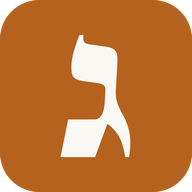
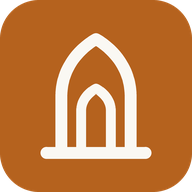
סימן האתר: קשת בית הכנסת, גם בלשונית הדפדפן (#98)
קשת מחודדת על סף, ובתוכה פתח: בית הכנסת בן עזרא שבו נשמרה הגניזה, וה"חלון"
שבכותרת. מחליפה את הקרע מעל הכותרת בדף הבית ובבאנר של כל דף פנימי, ואת
הגימל ב-favicon.

- brand_mark.py מחזיק את הגאומטריה פעם אחת: SVG לדפים, ונקודות לציור
  ב-Pillow. make_brand_assets.py מצייר ממנה את ה-favicon (קשת בקרם על
  אריח הזהב, בקווים עבים יותר כדי שתחזיק ב-16px) ואת הקשת שבתמונת השיתוף,
  במקום הכוכבית שהייתה שם
- בלי מילוי: --parchment ירד מ-style.css ומ-a11y.css
- ה-◆ שבין שני הקישורים בדף הבית עבר ל-CSS: הביקורת תפסה אותו ב-4.18:1
  כטקסט, והוא קישוט

Claude-Session: https://claude.ai/code/session_01EUL7N1uFk7dThFrSs95rAV

Changed region(s): [[0.1875, 0.1562, 0.8125, 0.8438]]

diff --git a/assets/style.css b/assets/style.css
@@ -31,7 +31,6 @@
   --border:       #e6ddd2;
   --border-2:     #d4c6b8;
   --divider:      rgba(181,98,30,.15);
-  --parchment:    #f5ead9;   /* the torn leaf of the site mark (brand_mark.py) */
 
   /* Surprise panel — גוונים חמים ולא משפחת צבע שנייה. ראו ההערה ב-.surprise-btn */
   --surprise-1:        #f9f0e4;
@@ -852,11 +851,11 @@ img { display: block; max-width: 100%; }
   color: var(--text);
   text-decoration: none;
 }
-/* סימן האתר, קרע קלף (brand_mark.py). הצבעים משתנים, כדי שמצבי התצוגה של
-   תפריט הנגישות יחולו גם עליו. */
-.brand-mark { display: block; flex: none; }
-.brand-mark-leaf { fill: var(--parchment); stroke: var(--gold); stroke-width: 1.4; stroke-linejoin: round; }
-.brand-mark-ink  { fill: none; stroke: var(--text-2); stroke-width: 1.1; stroke-linecap: round; }
+/* סימן האתר, קשת בית הכנסת (brand_mark.py). בלי מילוי, והצבעים משתנים,
+   כדי שמצבי התצוגה של תפריט הנגישות יחולו גם עליו. */
+.brand-mark { display: block; flex: none; fill: none; stroke-linecap: round; stroke-linejoin: round; }
+.brand-mark-line { stroke: var(--gold); stroke-width: 1.6; }
+.brand-mark-ink  { stroke: var(--text-2); stroke-width: 1.3; }
 .nav-brand .brand-mark { width: 1.9rem; height: 1.9rem; }
 .nav-brand-text { display: flex; flex-direction: column; min-width: 0; line-height: 1.25; }
 .nav-brand-name { font-weight: 700; font-size: 1.05rem; letter-spacing: -.01em; white-space: nowrap; }
@@ -1443,7 +1442,9 @@ html.a11y-still .sister-clone { display: none; }
   margin-top: var(--sp-3);
 }
 .header-links .about-link { margin-top: 0; }
-.header-links-sep { color: var(--gold); opacity: .6; font-size: .5rem; }
+/* ה-◆ יושב ב-CSS ולא בטקסט: הוא קישוט, ובגודל הזה לא היה עומד ב-4.5:1
+   שהביקורת דורשת מטקסט. "/ ''" משתיק אותו לקורא המסך. */
+.header-links-sep::before { content: '◆'; content: '◆' / ''; color: var(--gold); opacity: .6; font-size: .5rem; }
 
 /* ── KPI section (2-card version) ────────────────────────────────────────────── */
 .dashboard-kpi {

diff --git a/index.html b/index.html
@@ -110,7 +110,7 @@
 
   <header class="site-header">
     <div class="header-inner">
-      <div class="header-ornament"><svg class="brand-mark" viewBox="0 0 32 32" aria-hidden="true" focusable="false"><path class="brand-mark-leaf" d="M6 4.5L10 5L13 3.5L17 4.5L20 3.5L24 4L25.5 7L24.5 10L26 13L24.8 16L26 19.5L25.2 22.5L26.2 27L22.2 27.8L19.2 26.8L16.2 28L12.7 27.2L9.7 28L6.7 27.5L6.2 24L6.6 21L8.5 20.2L10 19.4L11.4 18.4L12.6 17.6L14 16.4L16 15.4L14 14.4L12.8 13.3L11.2 12.6L9.8 11.4L8 10.6L6 9.8L5 7z"/><path class="brand-mark-ink" d="M22.5 8.5H10M22.5 12H13.2M22.5 15.5H17.6M22.5 19H13.6M22.5 22.5H10M22.5 25.5H12"/></svg></div>
+      <div class="header-ornament"><svg class="brand-mark" viewBox="0 0 32 32" aria-hidden="true" focusable="false"><path class="brand-mark-line" d="M9 27L9 15.5C9 10 12.5 6 16 4C19.5 6 23 10 23 15.5L23 27"/><path class="brand-mark-line" d="M6 27L26 27"/><path class="brand-mark-ink" d="M13 27L13 18.5C13 16.5 14.3 14.9 16 14C17.7 14.9 19 16.5 19 18.5L19 27"/></svg></div>
       <h1 class="site-title">הגניזה הקהירית</h1>
       <p class="site-subtitle">חלון אל החיים היהודיים בימי הביניים</p>
       <p class="site-intro">
@@ -118,7 +118,7 @@
       </p>
       <p class="header-links">
         <a href="about.html" class="about-link">אודות הגניזה הקהירית</a>
-        <span class="header-links-sep" aria-hidden="true">◆</span>
+        <span class="header-links-sep" aria-hidden="true"></span>
         <a href="t/hebrew-translation/" class="about-link">מכתבי הגניזה בתרגום לעברית</a>
       </p>
     </div>

diff --git a/privacy/index.html b/privacy/index.html
@@ -53,7 +53,7 @@
 
   <nav class="top-nav" aria-label="ניווט">
     <a href="../" class="nav-brand">
-      <svg class="brand-mark" viewBox="0 0 32 32" aria-hidden="true" focusable="false"><path class="brand-mark-leaf" d="M6 4.5L10 5L13 3.5L17 4.5L20 3.5L24 4L25.5 7L24.5 10L26 13L24.8 16L26 19.5L25.2 22.5L26.2 27L22.2 27.8L19.2 26.8L16.2 28L12.7 27.2L9.7 28L6.7 27.5L6.2 24L6.6 21L8.5 20.2L10 19.4L11.4 18.4L12.6 17.6L14 16.4L16 15.4L14 14.4L12.8 13.3L11.2 12.6L9.8 11.4L8 10.6L6 9.8L5 7z"/><path class="brand-mark-ink" d="M22.5 8.5H10M22.5 12H13.2M22.5 15.5H17.6M22.5 19H13.6M22.5 22.5H10M22.5 25.5H12"/></svg>
+      <svg class="brand-mark" viewBox="0 0 32 32" aria-hidden="true" focusable="false"><path class="brand-mark-line" d="M9 27L9 15.5C9 10 12.5 6 16 4C19.5 6 23 10 23 15.5L23 27"/><path class="brand-mark-line" d="M6 27L26 27"/><path class="brand-mark-ink" d="M13 27L13 18.5C13 16.5 14.3 14.9 16 14C17.7 14.9 19 16.5 19 18.5L19 27"/></svg>
       <span class="nav-brand-text"><span class="nav-brand-name">הגניזה הקהירית</span><span class="nav-brand-sub">חלון אל החיים היהודיים בימי הביניים</span></span>
     </a>
     <span class="nav-breadcrumb" aria-current="page">מדיניות פרטיות</span>

diff --git a/accessibility/index.html b/accessibility/index.html
@@ -53,7 +53,7 @@
 
   <nav class="top-nav" aria-label="ניווט">
     <a href="../" class="nav-brand">
-      <svg class="brand-mark" viewBox="0 0 32 32" aria-hidden="true" focusable="false"><path class="brand-mark-leaf" d="M6 4.5L10 5L13 3.5L17 4.5L20 3.5L24 4L25.5 7L24.5 10L26 13L24.8 16L26 19.5L25.2 22.5L26.2 27L22.2 27.8L19.2 26.8L16.2 28L12.7 27.2L9.7 28L6.7 27.5L6.2 24L6.6 21L8.5 20.2L10 19.4L11.4 18.4L12.6 17.6L14 16.4L16 15.4L14 14.4L12.8 13.3L11.2 12.6L9.8 11.4L8 10.6L6 9.8L5 7z"/><path class="brand-mark-ink" d="M22.5 8.5H10M22.5 12H13.2M22.5 15.5H17.6M22.5 19H13.6M22.5 22.5H10M22.5 25.5H12"/></svg>
+      <svg class="brand-mark" viewBox="0 0 32 32" aria-hidden="true" focusable="false"><path class="brand-mark-line" d="M9 27L9 15.5C9 10 12.5 6 16 4C19.5 6 23 10 23 15.5L23 27"/><path class="brand-mark-line" d="M6 27L26 27"/><path class="brand-mark-ink" d="M13 27L13 18.5C13 16.5 14.3 14.9 16 14C17.7 14.9 19 16.5 19 18.5L19 27"/></svg>
       <span class="nav-brand-text"><span class="nav-brand-name">הגניזה הקהירית</span><span class="nav-brand-sub">חלון אל החיים היהודיים בימי הביניים</span></span>
     </a>
     <span class="nav-breadcrumb" aria-current="page">הצהרת נגישות</span>

diff --git a/about.html b/about.html
@@ -146,7 +146,7 @@
 
   <nav class="top-nav" aria-label="ניווט">
     <a href="./" class="nav-brand">
-      <svg class="brand-mark" viewBox="0 0 32 32" aria-hidden="true" focusable="false"><path class="brand-mark-leaf" d="M6 4.5L10 5L13 3.5L17 4.5L20 3.5L24 4L25.5 7L24.5 10L26 13L24.8 16L26 19.5L25.2 22.5L26.2 27L22.2 27.8L19.2 26.8L16.2 28L12.7 27.2L9.7 28L6.7 27.5L6.2 24L6.6 21L8.5 20.2L10 19.4L11.4 18.4L12.6 17.6L14 16.4L16 15.4L14 14.4L12.8 13.3L11.2 12.6L9.8 11.4L8 10.6L6 9.8L5 7z"/><path class="brand-mark-ink" d="M22.5 8.5H10M22.5 12H13.2M22.5 15.5H17.6M22.5 19H13.6M22.5 22.5H10M22.5 25.5H12"/></svg>
+      <svg class="brand-mark" viewBox="0 0 32 32" aria-hidden="true" focusable="false"><path class="brand-mark-line" d="M9 27L9 15.5C9 10 12.5 6 16 4C19.5 6 23 10 23 15.5L23 27"/><path class="brand-mark-line" d="M6 27L26 27"/><path class="brand-mark-ink" d="M13 27L13 18.5C13 16.5 14.3 14.9 16 14C17.7 14.9 19 16.5 19 18.5L19 27"/></svg>
       <span class="nav-brand-text"><span class="nav-brand-name">הגניזה הקהירית</span><span class="nav-brand-sub">חלון אל החיים היהודיים בימי הביניים</span></span>
     </a>
   </nav>

diff --git a/assets/a11y.css b/assets/a11y.css
@@ -28,7 +28,6 @@ html[data-fs="l"] { font-size: 125%; }
 html.a11y-contrast {
   --bg:           #ffffff;
   --bg-2:         #ffffff;
-  --parchment:    #ffffff;
   --bg-card:      #ffffff;
   --bg-card-h:    #f0f0f0;
   --bg-input:     #ffffff;
@@ -61,7 +60,6 @@ html.a11y-invert {
      המסמכים המשפטיים נושאים body.fragment-body, שרקעו --bg-2 ולא --bg.
      בגוון כמעט-שחור הם היו הדפים היחידים באתר שלא הופכים באמת. */
   --bg-2:         #000000;
-  --parchment:    #121212;
   --bg-card:      #121212;
   --bg-card-h:    #1e1e1e;
   --bg-input:     #121212;

diff --git a/make_brand_assets.py b/make_brand_assets.py
@@ -11,7 +11,7 @@ so the output carries no third-party image rights.
 
 Outputs:
     favicon.ico                 16/32/48 multi-size
-    favicon.svg                 vector, from the Frank Ruhl Libre gimel outline
+    favicon.svg                 vector, the arch from brand_mark.py
     assets/icon-192.png         PWA / Android
     assets/icon-512.png         PWA / Android
     assets/apple-touch-icon.png 180x180, square (iOS masks it itself)
@@ -24,9 +24,9 @@ import tempfile
 from fontTools.merge import Merger
 from fontTools.ttLib import TTFont
 from fontTools.varLib import instancer
-from fontTools.pens.svgPathPen import SVGPathPen
-from fontTools.pens.boundsPen import BoundsPen
 from PIL import Image, ImageDraw, ImageFont
+
+import brand_mark
 
 ROOT = pathlib.Path(__file__).parent
 FONTS = ROOT / "assets" / "fonts"
@@ -75,39 +75,52 @@ def _static_merged(slug, weight):
 
 
 # ── Favicon ───────────────────────────────────────────────────────────────────
-def build_favicon_svg(frl_woff2="frank-ruhl-libre-hebrew.woff2"):
-    """Trace the gimel (ג) outline into a dependency-free vector favicon."""
-    font = instancer.instantiateVariableFont(TTFont(FONTS / frl_woff2), {"wght": 900})
-    glyphs = font.getGlyphSet()
-    name = font.getBestCmap()[ord("ג")]
+# The arch from brand_mark.py, in cream on the gold tile. Its 32-unit box is
+# scaled into the 64-unit tile around the arch's centre (16, 15.5); the strokes
+# are heavier than on the page, so the mark survives being shrunk to 16px.
+TILE_SCALE = 1.65
+TILE_SHIFT = (32 - 16 * TILE_SCALE, 32 - 15.5 * TILE_SCALE)
+TILE_STROKE = {"outer": 2.4, "inner": 2.0}   # in brand_mark's 32-unit box
 
-    bounds = BoundsPen(glyphs)
-    glyphs[name].draw(bounds)
-    x0, y0, x1, y1 = bounds.bounds
 
-    pen = SVGPathPen(glyphs)
-    glyphs[name].draw(pen)
+def _hex(rgb):
+    return "#%02x%02x%02x" % rgb
 
-    target_h = 42.0
-    scale = target_h / (y1 - y0)
-    width = (x1 - x0) * scale
-    tx = (64 - width) / 2 - x0 * scale
-    ty = 32 + target_h / 2 - y0 * scale
 
+def build_favicon_svg():
+    paths = "".join(
+        f'\n  <path d="{brand_mark.path_d(p)}" stroke-width="{TILE_STROKE[k]}"/>'
+        for k, group in (("outer", brand_mark.OUTER), ("inner", brand_mark.INNER))
+        for p in group
+    )
     svg = (
         '<svg xmlns="http://www.w3.org/2000/svg" viewBox="0 0 64 64" '
         'role="img" aria-label="הגניזה הקהירית">\n'
         "  <title>הגניזה הקהירית</title>\n"
-        f'  <rect width="64" height="64" rx="13" fill="#{GOLD[0]:02x}{GOLD[1]:02x}{GOLD[2]:02x}"/>\n'
-        f'  <path transform="translate({tx:.3f} {ty:.3f}) scale({scale:.5f} -{scale:.5f})"'
-        f' fill="#{CREAM[0]:02x}{CREAM[1]:02x}{CREAM[2]:02x}" d="{pen.getCommands()}"/>\n'
+        f'  <rect width="64" height="64" rx="13" fill="{_hex(GOLD)}"/>\n'
+        f'  <g transform="translate({TILE_SHIFT[0]:g} {TILE_SHIFT[1]:g}) scale({TILE_SCALE:g})" '
+        f'fill="none" stroke="{_hex(CREAM)}" stroke-linecap="round" stroke-linejoin="round">'
+        f"{paths}\n  </g>\n"
         "</svg>\n"
     )
     (ROOT / "favicon.svg").write_text(svg, encoding="utf-8")
     print("  ✓  favicon.svg")
 
 
-def build_favicon_pngs(ttf, supersample=10, glyph_frac=0.66):
+def draw_mark(draw, origin, scale, colours, widths):
+    """Draw the arch with Pillow: each path flattened to a polyline, with
+    round joints and a disc on each end for the round caps."""
+    ox, oy = origin
+    for key, group in (("outer", brand_mark.OUTER), ("inner", brand_mark.INNER)):
+        w = widths[key] * scale
+        for path in group:
+            pts = [(ox + x * scale, oy + y * scale) for x, y in brand_mark.polyline(path)]
+            draw.line(pts, fill=colours[key], width=max(1, round(w)), joint="curve")
+            for x, y in (pts[0], pts[-1]):
+                draw.ellipse([x - w / 2, y - w / 2, x + w / 2, y + w / 2], fill=colours[key])
+
+
+def build_favicon_pngs(supersample=10):
     """Render the same mark as bitmaps, each at its native size."""
 
     def tile(size, rounded=True):
@@ -118,19 +131,9 @@ def build_favicon_pngs(ttf, supersample=10, glyph_frac=0.66):
             draw.rounded_rectangle([0, 0, n - 1, n - 1], radius=int(n * 13 / 64), fill=GOLD)
         else:
             draw.rectangle([0, 0, n - 1, n - 1], fill=GOLD)
-
-        target = n * glyph_frac
-        size_px = int(target * 1.7)
-        while size_px > 8:
-            font = ImageFont.truetype(str(ttf), size_px)
-            box = draw.textbbox((0, 0), "ג", font=font)
-            if box[3] - box[1] <= target:
-                break
-            size_px = int(size_px * 0.95)
-
-        box = draw.textbbox((0, 0), "ג", font=font)
-        w, h = box[2] - box[0], box[3] - box[1]
-        draw.text(((n - w) / 2 - box[0], (n - h) / 2 - box[1]), "ג", font=font, fill=CREAM)
+        unit = n / 64
+        draw_mark(draw, (TILE_SHIFT[0] * unit, TILE_SHIFT[1] * unit), TILE_SCALE * unit,
+                  {"outer": CREAM, "inner": CREAM}, TILE_STROKE)
         return img.resize((size, size), Image.LANCZOS)
 
     tile(512).save(ROOT / "assets" / "icon-512.png")
@@ -172,15 +175,14 @@ def build_og_image(heebo_bold, heebo_reg, heebo_med, width=1200, height=630):
     right = width - 96          # text baseline edge (RTL: text grows leftwards)
     kw = dict(anchor="ra", direction="rtl", language="he")
 
-    # Four-pointed star, echoing the ✦ in the site header (drawn, not typeset —
-    # neither webfont carries U+2726).
-    cx, cy, arm, waist = right - 13, 112, 26, 6
-    draw.polygon(
-        [(cx, cy - arm), (cx + waist, cy - waist), (cx + arm, cy),
-         (cx + waist, cy + waist), (cx, cy + arm), (cx - waist, cy + waist),
-         (cx - arm, cy), (cx - waist, cy - waist)],
-        fill=GOLD + (205,),
-    )
+    # The site mark (brand_mark.py), as over the title on the home page.
+    # Drawn at 4x and scaled down, since Pillow does not antialias lines.
+    ss, scale = 4, 2.7
+    mark = Image.new("RGBA", (int(32 * scale * ss),) * 2, (0, 0, 0, 0))
+    draw_mark(ImageDraw.Draw(mark), (0, 0), scale * ss,
+              {"outer": GOLD, "inner": INK_2}, {"outer": 1.6, "inner": 1.3})
+    mark = mark.resize((int(32 * scale),) * 2, Image.LANCZOS)
+    img.paste(mark, (round(right - 16 * scale - 13), round(112 - 15.5 * scale)), mark)
 
     # Heebo, not Frank Ruhl Libre: .site-title and .site-subtitle both use
     # --font-ui, so the card has to match the page it represents.
@@ -207,7 +209,7 @@ def build_og_image(heebo_bold, heebo_reg, heebo_med, width=1200, height=630):
 def main():
     print("\n── Brand assets ──────────────────────────────────────")
     build_favicon_svg()
-    build_favicon_pngs(_static("frank-ruhl-libre-hebrew.woff2", 900))
+    build_favicon_pngs()
     build_og_image(
         _static_merged("heebo", 700),
         _static_merged("heebo", 400),

diff --git a/brand_mark.py b/brand_mark.py
@@ -1,35 +1,73 @@
 #!/usr/bin/env python3
 """
-Geniza Explorer — the site mark: a torn fragment with its left side missing.
+Geniza Explorer — the site mark: a pointed arch standing on a threshold.
 
-A piece of parchment with a triangle torn out of its left edge, and the lines
-of writing stopping at the tear — the text ran on into the part that was lost,
-which is what nearly every document in the Geniza looks like.
+The arch is the Ben Ezra synagogue, where the Geniza was kept, and it is also
+the "חלון" of the subtitle. A smaller arch inside it is the doorway. Two
+strokes and a line, no fill: it has to read at 16px in a browser tab.
 
-It replaced the ✦ ornament in two places: over the title on the home page
-(build.py, .header-ornament) and in the small masthead at the top of every
-inner page (prerender.py and the three hand-written pages, .nav-brand). The
-hand-written pages carry a pasted copy of SVG — after changing it, paste
-`python3 brand_mark.py` into about.html, privacy/ and accessibility/.
+The geometry lives here once, and everything else is drawn from it:
 
-The colours are CSS variables, not fixed values, so the mark follows the
-accessibility menu's display modes: a11y.css redefines --parchment, --gold and
---text-2 for high contrast and inverted contrast.
+    SVG                  the inline mark, over the home-page title (build.py)
+                         and in the masthead of every inner page (prerender.py)
+    make_brand_assets.py the favicon set and the arch on assets/og-image.png
 
+The three hand-written pages (about.html, privacy/, accessibility/) carry a
+pasted copy of SVG — after changing the geometry, paste `python3 brand_mark.py`
+into them and re-run make_brand_assets.py.
+
+The inline colours are CSS variables (--gold for the arch, --text-2 for the
+doorway), so the accessibility menu's display modes apply to the mark too.
 It is decorative — the site name sits right beside it — so it is aria-hidden.
 """
 
-# ה-path מקיף את הקלף עם כיס משולש בצד שמאל, שקודקודו כמעט במרכז (16,15.4).
-# השורות מיושרות לימין (x=22.5) ונעצרות בקו הקרע.
+# Paths in a 32×32 box. Each is a start point followed by segments:
+# ("L", end) or ("C", ctrl1, ctrl2, end).
+ARCH = [(9, 27), ("L", (9, 15.5)),
+        ("C", (9, 10), (12.5, 6), (16, 4)),
+        ("C", (19.5, 6), (23, 10), (23, 15.5)),
+        ("L", (23, 27))]
+THRESHOLD = [(6, 27), ("L", (26, 27))]
+DOORWAY = [(13, 27), ("L", (13, 18.5)),
+           ("C", (13, 16.5), (14.3, 14.9), (16, 14)),
+           ("C", (17.7, 14.9), (19, 16.5), (19, 18.5)),
+           ("L", (19, 27))]
+
+OUTER = (ARCH, THRESHOLD)   # drawn in the accent colour
+INNER = (DOORWAY,)          # drawn in the ink colour
+
+
+def path_d(path):
+    """SVG path data for one of the paths above."""
+    fmt = lambda p: f"{p[0]:g} {p[1]:g}"
+    out = [f"M{fmt(path[0])}"]
+    for seg in path[1:]:
+        out.append(seg[0] + " ".join(fmt(p) for p in seg[1:]))
+    return "".join(out)
+
+
+def polyline(path, steps=24):
+    """The same path flattened into points, for raster drawing (Pillow has
+    no Bézier curves)."""
+    pts = [path[0]]
+    for seg in path[1:]:
+        if seg[0] == "L":
+            pts.append(seg[1])
+            continue
+        p0, (c1, c2, p3) = pts[-1], seg[1:]
+        for i in range(1, steps + 1):
+            t = i / steps
+            u = 1 - t
+            pts.append(tuple(u**3 * a + 3 * u * u * t * b + 3 * u * t * t * c + t**3 * d
+                             for a, b, c, d in zip(p0, c1, c2, p3)))
+    return pts
+
+
 SVG = (
     '<svg class="brand-mark" viewBox="0 0 32 32" aria-hidden="true" focusable="false">'
-    '<path class="brand-mark-leaf" d="M6 4.5L10 5L13 3.5L17 4.5L20 3.5L24 4L25.5 7L24.5 10'
-    'L26 13L24.8 16L26 19.5L25.2 22.5L26.2 27L22.2 27.8L19.2 26.8L16.2 28L12.7 27.2L9.7 28'
-    'L6.7 27.5L6.2 24L6.6 21L8.5 20.2L10 19.4L11.4 18.4L12.6 17.6L14 16.4L16 15.4L14 14.4'
-    'L12.8 13.3L11.2 12.6L9.8 11.4L8 10.6L6 9.8L5 7z"/>'
-    '<path class="brand-mark-ink" d="M22.5 8.5H10M22.5 12H13.2M22.5 15.5H17.6M22.5 19H13.6'
-    'M22.5 22.5H10M22.5 25.5H12"/>'
-    '</svg>'
+    + "".join(f'<path class="brand-mark-line" d="{path_d(p)}"/>' for p in OUTER)
+    + "".join(f'<path class="brand-mark-ink" d="{path_d(p)}"/>' for p in INNER)
+    + "</svg>"
 )
 
 if __name__ == "__main__":

diff --git a/build.py b/build.py
@@ -711,7 +711,7 @@ INDEX_HTML = """\
       </p>
       <p class="header-links">
         <a href="about.html" class="about-link">אודות הגניזה הקהירית</a>
-        <span class="header-links-sep" aria-hidden="true">◆</span>
+        <span class="header-links-sep" aria-hidden="true"></span>
         <a href="t/hebrew-translation/" class="about-link">מכתבי הגניזה בתרגום לעברית</a>
       </p>
     </div>

diff --git a/CLAUDE.md b/CLAUDE.md
@@ -15,7 +15,7 @@
 |------|--------|
 | `build.py` | בונה את `index.html`, `fragment.html`, `data/search.json` ו-`data/docs/*.json` מ-CSV של Princeton Geniza Project. בסוף קורא ל-`prerender.py`. **גם גוזם** קובץ ב-`data/docs` שאינו ב-CSV עוד — ראו למטה |
 | `prerender.py` | בונה עמוד HTML סטטי לכל מסמך תחת `d/`, מפתח סטטי, דפי הנושא תחת `t/`, שלושת קובצי ה-sitemap ו-`robots.txt` |
-| `make_brand_assets.py` | מייצר את ה-favicon ואת `assets/og-image.png` מהגופנים והפלטה של האתר. הרץ רק אם משנים לוגו/צבעים |
+| `make_brand_assets.py` | מייצר את ה-favicon (הקשת מ-`brand_mark.py` על אריח זהב) ואת `assets/og-image.png` מהגופנים והפלטה של האתר. הרץ רק אם משנים לוגו/צבעים. דורש `pip install pillow fonttools brotli` |
 | `index.html` | **נוצר אוטומטית** — אל תערוך |
 | `fragment.html` | **נוצר אוטומטית** — דף הפניה בלבד (ראו למטה) |
 | `d/` | **נוצר אוטומטית, gitignored** — ~36K עמודי מסמך |
@@ -29,7 +29,7 @@
 | `accessibility/index.html` | הצהרת נגישות — נכתב ביד, ניתן לעריכה |
 | `honorifics.py` | טבלת התארים של חכמי הגניזה ו-`add_titles`, שמוסיף אותם לכל תיאור עברי בבנייה. `build.py` קורא לו, ו-`check_tag_pages.py` מאמת בעזרתו את המבואות — ראו למטה |
 | `sister_sites.py` + `assets/sister.js` | פס "עוד אתרים שלי" בתחתית כל footer — אותו פס כמו ב-dronexam.co.il (ריפו RATA), כשהגניזה מוחלפת בקישור אליו. `build.py` ו-`prerender.py` שותלים את `nav(root)`; בשלושת הדפים שנכתבו ביד יש עותק מודבק, ובשינוי `SITES` מדביקים מחדש את הפלט של `python3 sister_sites.py` (`../` בתיקיות). הפס נע מעצמו, ולכן הוא נזכר בהצהרת הנגישות תחת "תנועה וזמן" |
-| `brand_mark.py` | סימן האתר: קרע קלף שחסר בו משולש משמאל. SVG אחד, מעל הכותרת בדף הבית (`build.py`) ובבאנר שבראש כל דף פנימי (`prerender.py`). הצבעים הם משתני CSS (`--parchment`, `--gold`, `--text-2`) ולכן מצבי הניגודיות חלים עליו. בשלושת הדפים שנכתבו ביד יש עותק מודבק — בשינוי מדביקים מחדש את `python3 brand_mark.py` |
+| `brand_mark.py` | סימן האתר: קשת מחודדת על סף, ובתוכה פתח — בית הכנסת בן עזרא, וה"חלון" שבכותרת. הגאומטריה כתובה כאן פעם אחת: ה-SVG שמעל הכותרת בדף הבית (`build.py`) ובבאנר של כל דף פנימי (`prerender.py`), וגם ה-favicon ותמונת השיתוף (`make_brand_assets.py`). הצבעים ב-SVG הם משתני CSS (`--gold`, `--text-2`) ולכן מצבי הניגודיות חלים עליו. בשלושת הדפים שנכתבו ביד יש עותק מודבק — בשינוי מדביקים מחדש את `python3 brand_mark.py` ומריצים את `make_brand_assets.py` |
 | `a11y_snippets.py` | שני בלוקי ה-HTML של הנגישות והפרטיות שכל דף נושא. `build.py` ו-`prerender.py` מייבאים ממנו |
 | `CNAME` | הדומיין המותאם. `prerender.py` גוזר ממנו את כל הכתובות המוחלטות — **אל תמחק** |
 | `googlef716f9558cc7d448.html` | אימות Google Search Console. תוכן מדויק שגוגל משווה — **אל תערוך ואל תמחק** |
